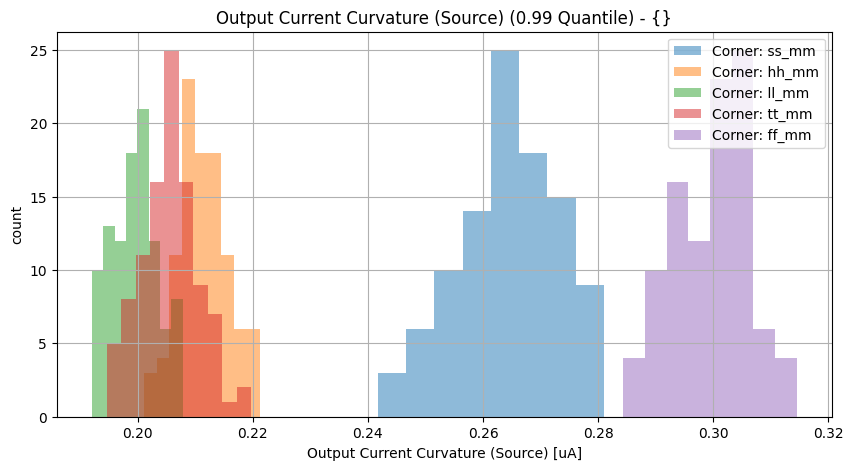
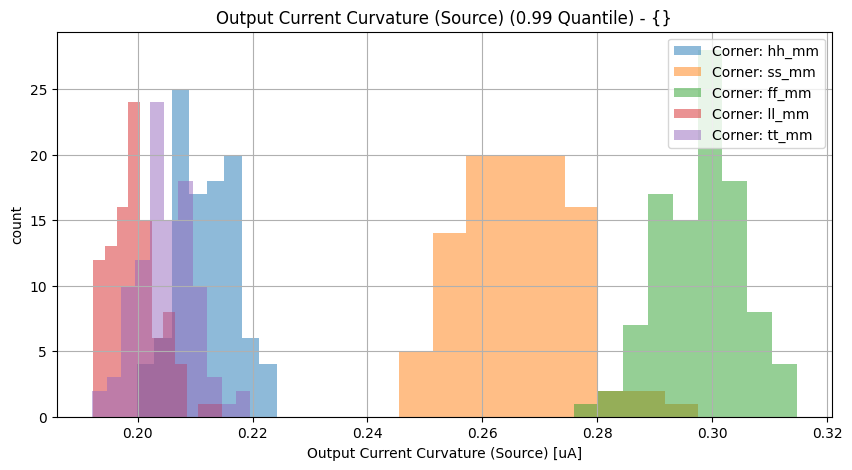
Jenkins update

diff --git a/vthref_tt/vthref/Readme.md b/vthref_tt/vthref/Readme.md
@@ -1,6 +1,5 @@
-17.09.2024, 19:23:09
+17.09.2024, 20:21:20
 
-<br>
 # Vth Current Reference
 
 10 uA current reference with source- and sink-port.
@@ -12,11 +11,11 @@
 [🔗 Schematics](vthref_sch.pdf)<br>
 <details><summary>Show Tool Versions...</summary>
 
-xschem: 3.4.5<br>
-ngspice: 41<br>
-magic: 8.3.486<br>
-netgen: 1.5.277<br>
-openpdk: 1.0.493<br>
+> xschem: 3.4.5<br>
+> ngspice: 41<br>
+> magic: 8.3.486<br>
+> netgen: 1.5.277<br>
+> openpdk: 1.0.493<br>
 </details><br>
 
 
@@ -50,8 +49,8 @@ LVS-state: Netlists match uniquely.<br>
 
 | Parameter | Min (Spec. / Sim.) |      | Max (Sim. / Spec.) | Unit | Checks (total/pass/fail/NaN) | Comment |
 | :-------- | -----------------: | :--: | :----------------- | :--- | :--------------------------- | ------- |
-| Output Current Curvature (Sink) | 0.0 / 0.191 | <svg height="20" width="150"><polyline points="3.0,3,3.0,17,147.0,17,147.0,3" style="fill:none;stroke:gray;stroke-width:1" /><polyline points="75.0,10.0,75.0,17" style="fill:none;stroke:gray;stroke-width:1" /><polyline points="30.4459968,10.0,48.3344976,10.0" style="stroke:green;stroke-width:2" /><circle cx="30.4459968" cy="10.0" r="3" style="fill:green;stroke:green;stroke-width:0" /><circle cx="48.3344976" cy="10.0" r="3" style="fill:green;stroke:green;stroke-width:0" /></svg> | 0.315 / 1.0 | uA | 500/100.0%/0.0%/0.0% |  |
-| Output Current Curvature (Source) | 0.0 / 0.192 | <svg height="20" width="150"><polyline points="3.0,3,3.0,17,147.0,17,147.0,3" style="fill:none;stroke:gray;stroke-width:1" /><polyline points="75.0,10.0,75.0,17" style="fill:none;stroke:gray;stroke-width:1" /><polyline points="30.6632064,10.0,48.285177600000004,10.0" style="stroke:green;stroke-width:2" /><circle cx="30.6632064" cy="10.0" r="3" style="fill:green;stroke:green;stroke-width:0" /><circle cx="48.285177600000004" cy="10.0" r="3" style="fill:green;stroke:green;stroke-width:0" /></svg> | 0.314 / 1.0 | uA | 500/100.0%/0.0%/0.0% |  |
+| Output Current Curvature (Sink) | 0.0 / 0.19 | <svg height="20" width="150"><polyline points="3.0,3,3.0,17,147.0,17,147.0,3" style="fill:none;stroke:gray;stroke-width:1" /><polyline points="75.0,10.0,75.0,17" style="fill:none;stroke:gray;stroke-width:1" /><polyline points="30.4052016,10.0,49.109808,10.0" style="stroke:green;stroke-width:2" /><circle cx="30.4052016" cy="10.0" r="3" style="fill:green;stroke:green;stroke-width:0" /><circle cx="49.109808" cy="10.0" r="3" style="fill:green;stroke:green;stroke-width:0" /></svg> | 0.32 / 1.0 | uA | 500/100.0%/0.0%/0.0% |  |
+| Output Current Curvature (Source) | 0.0 / 0.192 | <svg height="20" width="150"><polyline points="3.0,3,3.0,17,147.0,17,147.0,3" style="fill:none;stroke:gray;stroke-width:1" /><polyline points="75.0,10.0,75.0,17" style="fill:none;stroke:gray;stroke-width:1" /><polyline points="30.6594912,10.0,48.3211344,10.0" style="stroke:green;stroke-width:2" /><circle cx="30.6594912" cy="10.0" r="3" style="fill:green;stroke:green;stroke-width:0" /><circle cx="48.3211344" cy="10.0" r="3" style="fill:green;stroke:green;stroke-width:0" /></svg> | 0.315 / 1.0 | uA | 500/100.0%/0.0%/0.0% |  |
 
 <br>
 
@@ -70,8 +69,8 @@ LVS-state: Netlists match uniquely.<br>
 
 | Parameter | Min (Spec. / Sim.) |      | Max (Sim. / Spec.) | Unit | Checks (total/pass/fail/NaN) | Comment |
 | :-------- | -----------------: | :--: | :----------------- | :--- | :--------------------------- | ------- |
-| Output Current Curvature (Sink) | 0.0 / 0.193 | <svg height="20" width="150"><polyline points="3.0,3,3.0,17,147.0,17,147.0,3" style="fill:none;stroke:gray;stroke-width:1" /><polyline points="75.0,10.0,75.0,17" style="fill:none;stroke:gray;stroke-width:1" /><polyline points="30.8020368,10.0,138.7160256,10.0" style="stroke:green;stroke-width:2" /><circle cx="30.8020368" cy="10.0" r="3" style="fill:green;stroke:green;stroke-width:0" /><circle cx="138.7160256" cy="10.0" r="3" style="fill:green;stroke:green;stroke-width:0" /></svg> | 0.942 / 1.0 | uA | 500/100.0%/0.0%/0.0% |  |
-| Output Current Curvature (Source) | 0.0 / 0.193 | <svg height="20" width="150"><polyline points="3.0,3,3.0,17,147.0,17,147.0,3" style="fill:none;stroke:gray;stroke-width:1" /><polyline points="75.0,10.0,75.0,17" style="fill:none;stroke:gray;stroke-width:1" /><polyline points="30.852408,10.0,145.4854224,10.0" style="stroke:green;stroke-width:2" /><circle cx="30.852408" cy="10.0" r="3" style="fill:green;stroke:green;stroke-width:0" /><circle cx="145.4854224" cy="10.0" r="3" style="fill:green;stroke:green;stroke-width:0" /></svg> | 0.989 / 1.0 | uA | 500/100.0%/0.0%/0.0% |  |
+| Output Current Curvature (Sink) | 0.0 / 0.193 | <svg height="20" width="150"><polyline points="3.0,3,3.0,17,147.0,17,147.0,3" style="fill:none;stroke:gray;stroke-width:1" /><polyline points="75.0,10.0,75.0,17" style="fill:none;stroke:gray;stroke-width:1" /><polyline points="30.82476,10.0,47.497080000000004,10.0" style="stroke:green;stroke-width:2" /><circle cx="30.82476" cy="10.0" r="3" style="fill:green;stroke:green;stroke-width:0" /><circle cx="47.497080000000004" cy="10.0" r="3" style="fill:green;stroke:green;stroke-width:0" /></svg> | 0.309 / 1.0 | uA | 500/100.0%/0.0%/0.0% |  |
+| Output Current Curvature (Source) | 0.0 / 0.194 | <svg height="20" width="150"><polyline points="3.0,3,3.0,17,147.0,17,147.0,3" style="fill:none;stroke:gray;stroke-width:1" /><polyline points="75.0,10.0,75.0,17" style="fill:none;stroke:gray;stroke-width:1" /><polyline points="30.878472,10.0,49.1060496,10.0" style="stroke:green;stroke-width:2" /><circle cx="30.878472" cy="10.0" r="3" style="fill:green;stroke:green;stroke-width:0" /><circle cx="49.1060496" cy="10.0" r="3" style="fill:green;stroke:green;stroke-width:0" /></svg> | 0.32 / 1.0 | uA | 500/100.0%/0.0%/0.0% |  |
 
 <br>
 

diff --git a/vthref_tt/vthref/specReport.md b/vthref_tt/vthref/specReport.md
@@ -22,8 +22,8 @@
 
 | Parameter | Min (Spec. / Sim.) |      | Max (Sim. / Spec.) | Unit | Checks (total/pass/fail/NaN) | Comment |
 | :-------- | -----------------: | :--: | :----------------- | :--- | :--------------------------- | ------- |
-| Output Current Curvature (Sink) | 0.0 / 0.191 | <svg height="20" width="150"><polyline points="3.0,3,3.0,17,147.0,17,147.0,3" style="fill:none;stroke:gray;stroke-width:1" /><polyline points="75.0,10.0,75.0,17" style="fill:none;stroke:gray;stroke-width:1" /><polyline points="30.4459968,10.0,48.3344976,10.0" style="stroke:green;stroke-width:2" /><circle cx="30.4459968" cy="10.0" r="3" style="fill:green;stroke:green;stroke-width:0" /><circle cx="48.3344976" cy="10.0" r="3" style="fill:green;stroke:green;stroke-width:0" /></svg> | 0.315 / 1.0 | uA | 500/100.0%/0.0%/0.0% |  |
-| Output Current Curvature (Source) | 0.0 / 0.192 | <svg height="20" width="150"><polyline points="3.0,3,3.0,17,147.0,17,147.0,3" style="fill:none;stroke:gray;stroke-width:1" /><polyline points="75.0,10.0,75.0,17" style="fill:none;stroke:gray;stroke-width:1" /><polyline points="30.6632064,10.0,48.285177600000004,10.0" style="stroke:green;stroke-width:2" /><circle cx="30.6632064" cy="10.0" r="3" style="fill:green;stroke:green;stroke-width:0" /><circle cx="48.285177600000004" cy="10.0" r="3" style="fill:green;stroke:green;stroke-width:0" /></svg> | 0.314 / 1.0 | uA | 500/100.0%/0.0%/0.0% |  |
+| Output Current Curvature (Sink) | 0.0 / 0.19 | <svg height="20" width="150"><polyline points="3.0,3,3.0,17,147.0,17,147.0,3" style="fill:none;stroke:gray;stroke-width:1" /><polyline points="75.0,10.0,75.0,17" style="fill:none;stroke:gray;stroke-width:1" /><polyline points="30.4052016,10.0,49.109808,10.0" style="stroke:green;stroke-width:2" /><circle cx="30.4052016" cy="10.0" r="3" style="fill:green;stroke:green;stroke-width:0" /><circle cx="49.109808" cy="10.0" r="3" style="fill:green;stroke:green;stroke-width:0" /></svg> | 0.32 / 1.0 | uA | 500/100.0%/0.0%/0.0% |  |
+| Output Current Curvature (Source) | 0.0 / 0.192 | <svg height="20" width="150"><polyline points="3.0,3,3.0,17,147.0,17,147.0,3" style="fill:none;stroke:gray;stroke-width:1" /><polyline points="75.0,10.0,75.0,17" style="fill:none;stroke:gray;stroke-width:1" /><polyline points="30.6594912,10.0,48.3211344,10.0" style="stroke:green;stroke-width:2" /><circle cx="30.6594912" cy="10.0" r="3" style="fill:green;stroke:green;stroke-width:0" /><circle cx="48.3211344" cy="10.0" r="3" style="fill:green;stroke:green;stroke-width:0" /></svg> | 0.315 / 1.0 | uA | 500/100.0%/0.0%/0.0% |  |
 
 <br>
 
@@ -42,8 +42,8 @@
 
 | Parameter | Min (Spec. / Sim.) |      | Max (Sim. / Spec.) | Unit | Checks (total/pass/fail/NaN) | Comment |
 | :-------- | -----------------: | :--: | :----------------- | :--- | :--------------------------- | ------- |
-| Output Current Curvature (Sink) | 0.0 / 0.193 | <svg height="20" width="150"><polyline points="3.0,3,3.0,17,147.0,17,147.0,3" style="fill:none;stroke:gray;stroke-width:1" /><polyline points="75.0,10.0,75.0,17" style="fill:none;stroke:gray;stroke-width:1" /><polyline points="30.8020368,10.0,138.7160256,10.0" style="stroke:green;stroke-width:2" /><circle cx="30.8020368" cy="10.0" r="3" style="fill:green;stroke:green;stroke-width:0" /><circle cx="138.7160256" cy="10.0" r="3" style="fill:green;stroke:green;stroke-width:0" /></svg> | 0.942 / 1.0 | uA | 500/100.0%/0.0%/0.0% |  |
-| Output Current Curvature (Source) | 0.0 / 0.193 | <svg height="20" width="150"><polyline points="3.0,3,3.0,17,147.0,17,147.0,3" style="fill:none;stroke:gray;stroke-width:1" /><polyline points="75.0,10.0,75.0,17" style="fill:none;stroke:gray;stroke-width:1" /><polyline points="30.852408,10.0,145.4854224,10.0" style="stroke:green;stroke-width:2" /><circle cx="30.852408" cy="10.0" r="3" style="fill:green;stroke:green;stroke-width:0" /><circle cx="145.4854224" cy="10.0" r="3" style="fill:green;stroke:green;stroke-width:0" /></svg> | 0.989 / 1.0 | uA | 500/100.0%/0.0%/0.0% |  |
+| Output Current Curvature (Sink) | 0.0 / 0.193 | <svg height="20" width="150"><polyline points="3.0,3,3.0,17,147.0,17,147.0,3" style="fill:none;stroke:gray;stroke-width:1" /><polyline points="75.0,10.0,75.0,17" style="fill:none;stroke:gray;stroke-width:1" /><polyline points="30.82476,10.0,47.497080000000004,10.0" style="stroke:green;stroke-width:2" /><circle cx="30.82476" cy="10.0" r="3" style="fill:green;stroke:green;stroke-width:0" /><circle cx="47.497080000000004" cy="10.0" r="3" style="fill:green;stroke:green;stroke-width:0" /></svg> | 0.309 / 1.0 | uA | 500/100.0%/0.0%/0.0% |  |
+| Output Current Curvature (Source) | 0.0 / 0.194 | <svg height="20" width="150"><polyline points="3.0,3,3.0,17,147.0,17,147.0,3" style="fill:none;stroke:gray;stroke-width:1" /><polyline points="75.0,10.0,75.0,17" style="fill:none;stroke:gray;stroke-width:1" /><polyline points="30.878472,10.0,49.1060496,10.0" style="stroke:green;stroke-width:2" /><circle cx="30.878472" cy="10.0" r="3" style="fill:green;stroke:green;stroke-width:0" /><circle cx="49.1060496" cy="10.0" r="3" style="fill:green;stroke:green;stroke-width:0" /></svg> | 0.32 / 1.0 | uA | 500/100.0%/0.0%/0.0% |  |
 
 <br>
 

diff --git a/vthref_tt/vthref/docReport.md b/vthref_tt/vthref/docReport.md
@@ -1,6 +1,5 @@
-17.09.2024, 19:23:09
+17.09.2024, 20:21:20
 
-<br>
 # Vth Current Reference
 
 10 uA current reference with source- and sink-port.
@@ -12,10 +11,10 @@
 [🔗 Schematics](vthref_sch.pdf)<br>
 <details><summary>Show Tool Versions...</summary>
 
-xschem: 3.4.5<br>
-ngspice: 41<br>
-magic: 8.3.486<br>
-netgen: 1.5.277<br>
-openpdk: 1.0.493<br>
+> xschem: 3.4.5<br>
+> ngspice: 41<br>
+> magic: 8.3.486<br>
+> netgen: 1.5.277<br>
+> openpdk: 1.0.493<br>
 </details><br>
 
